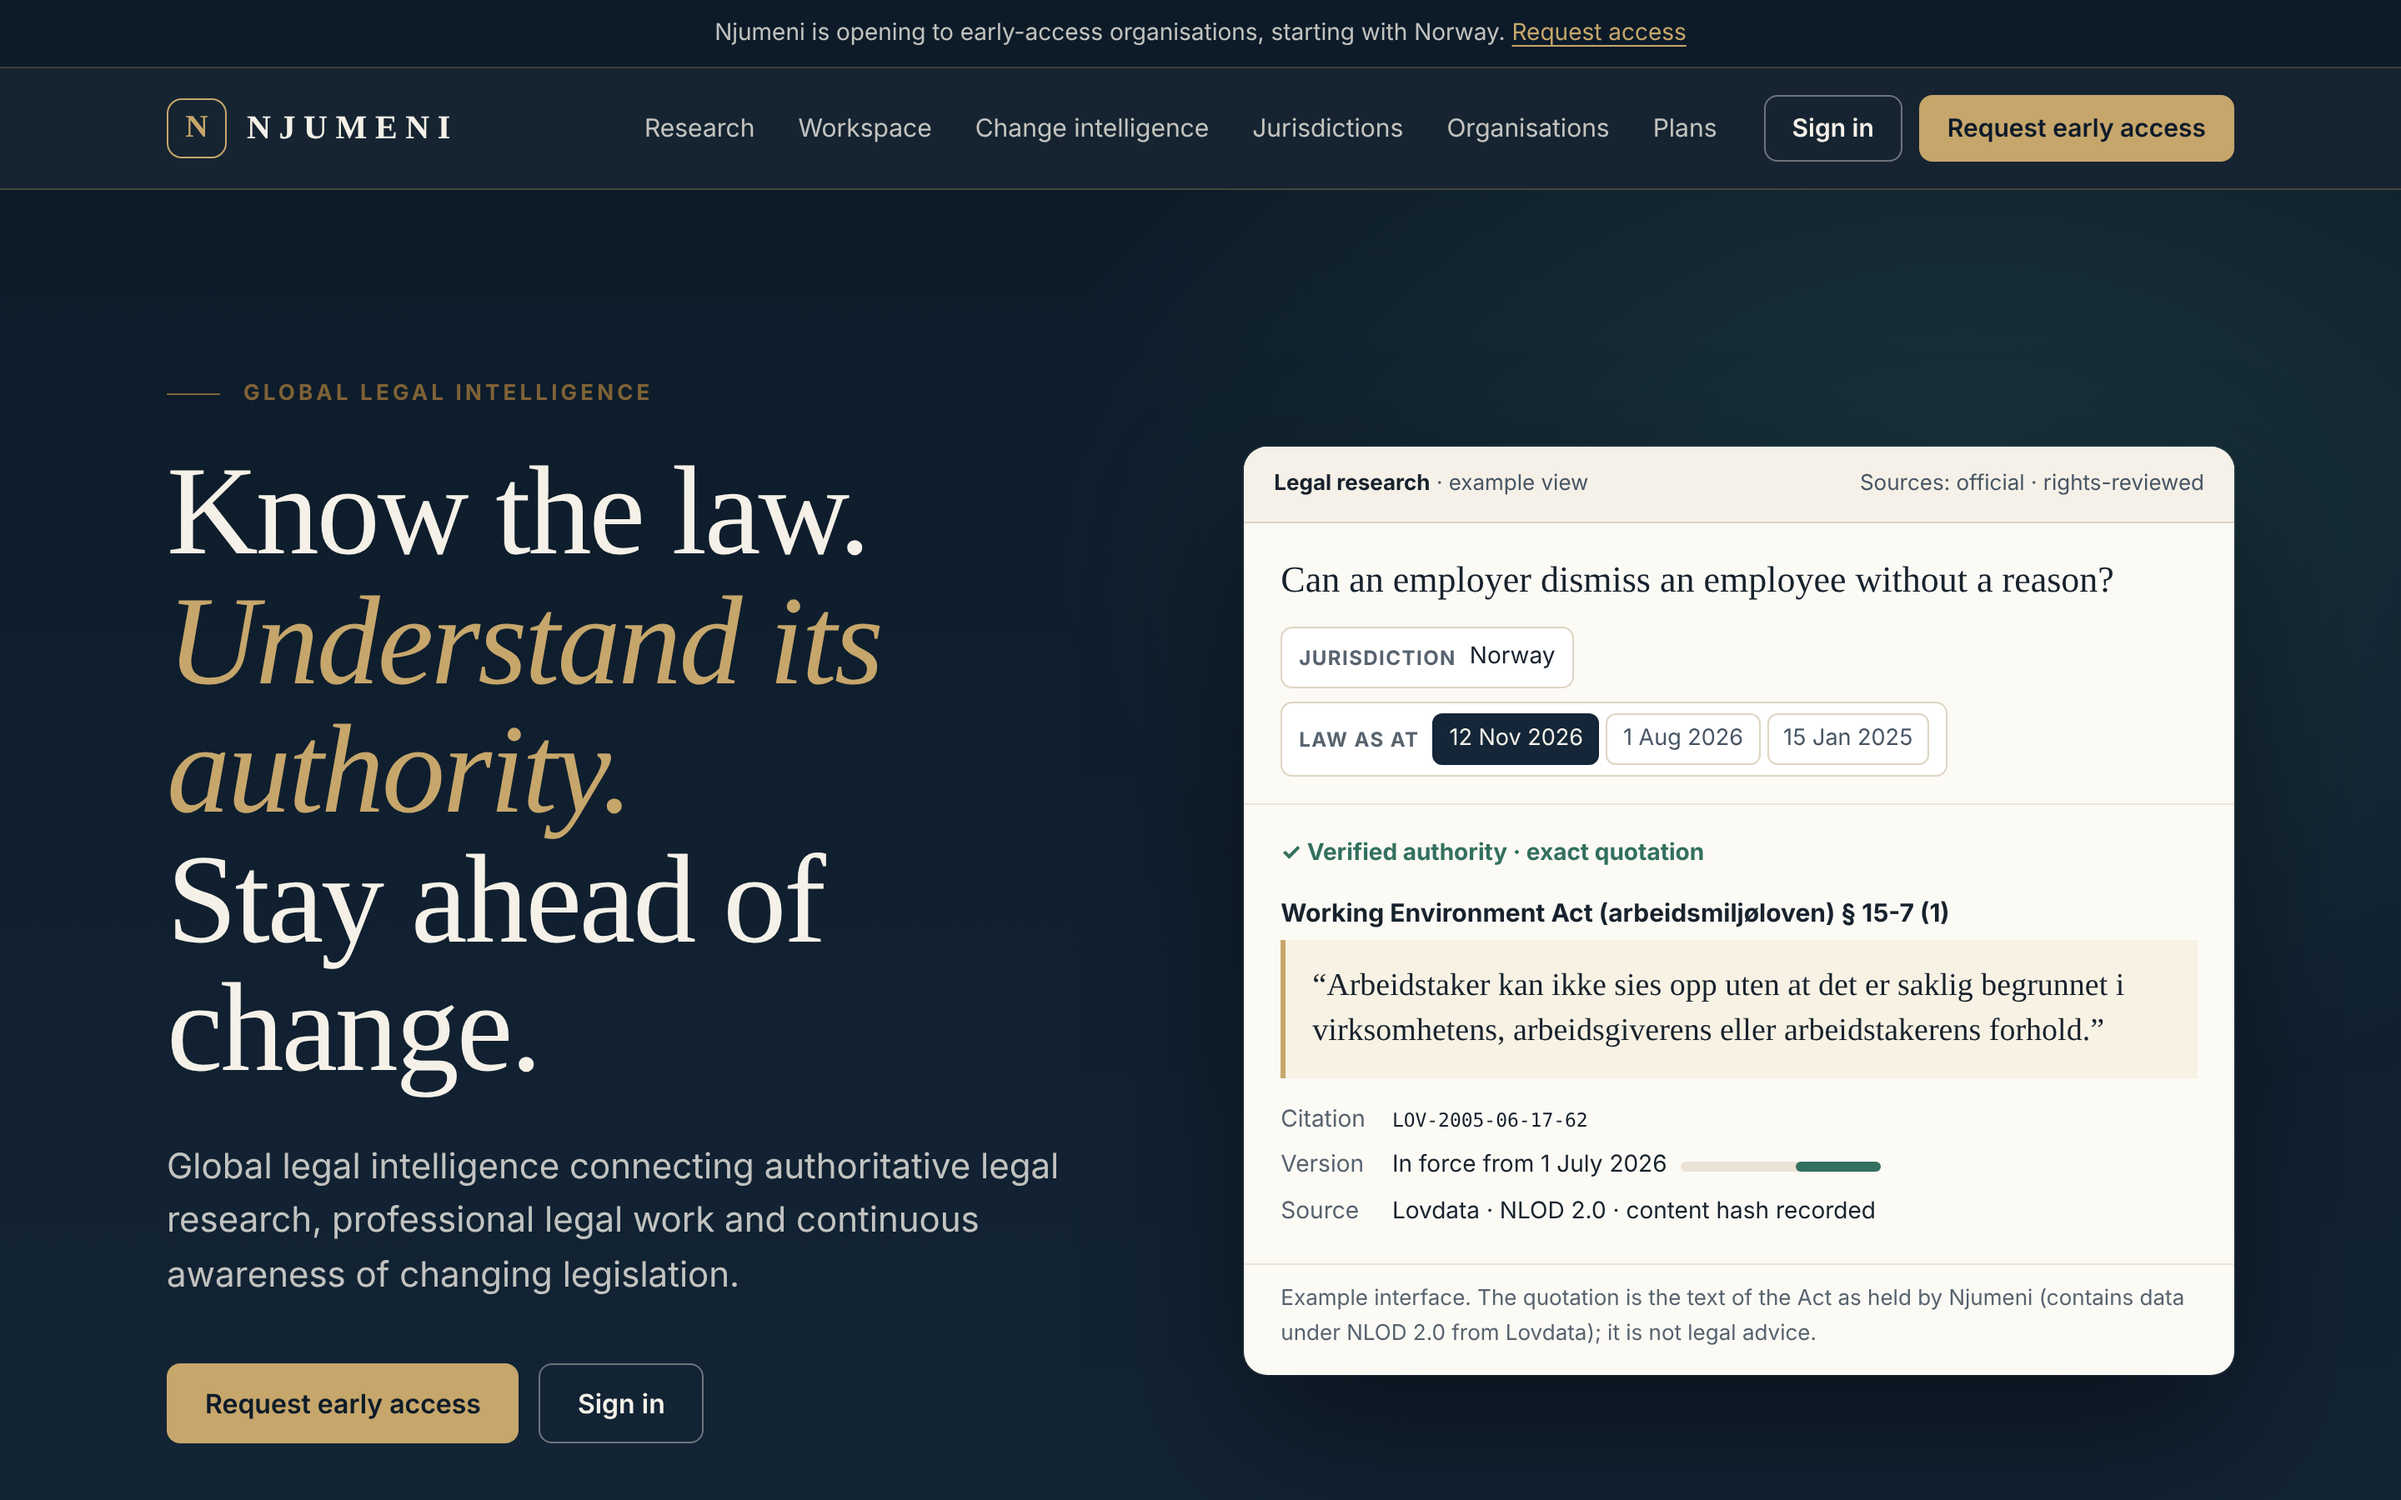
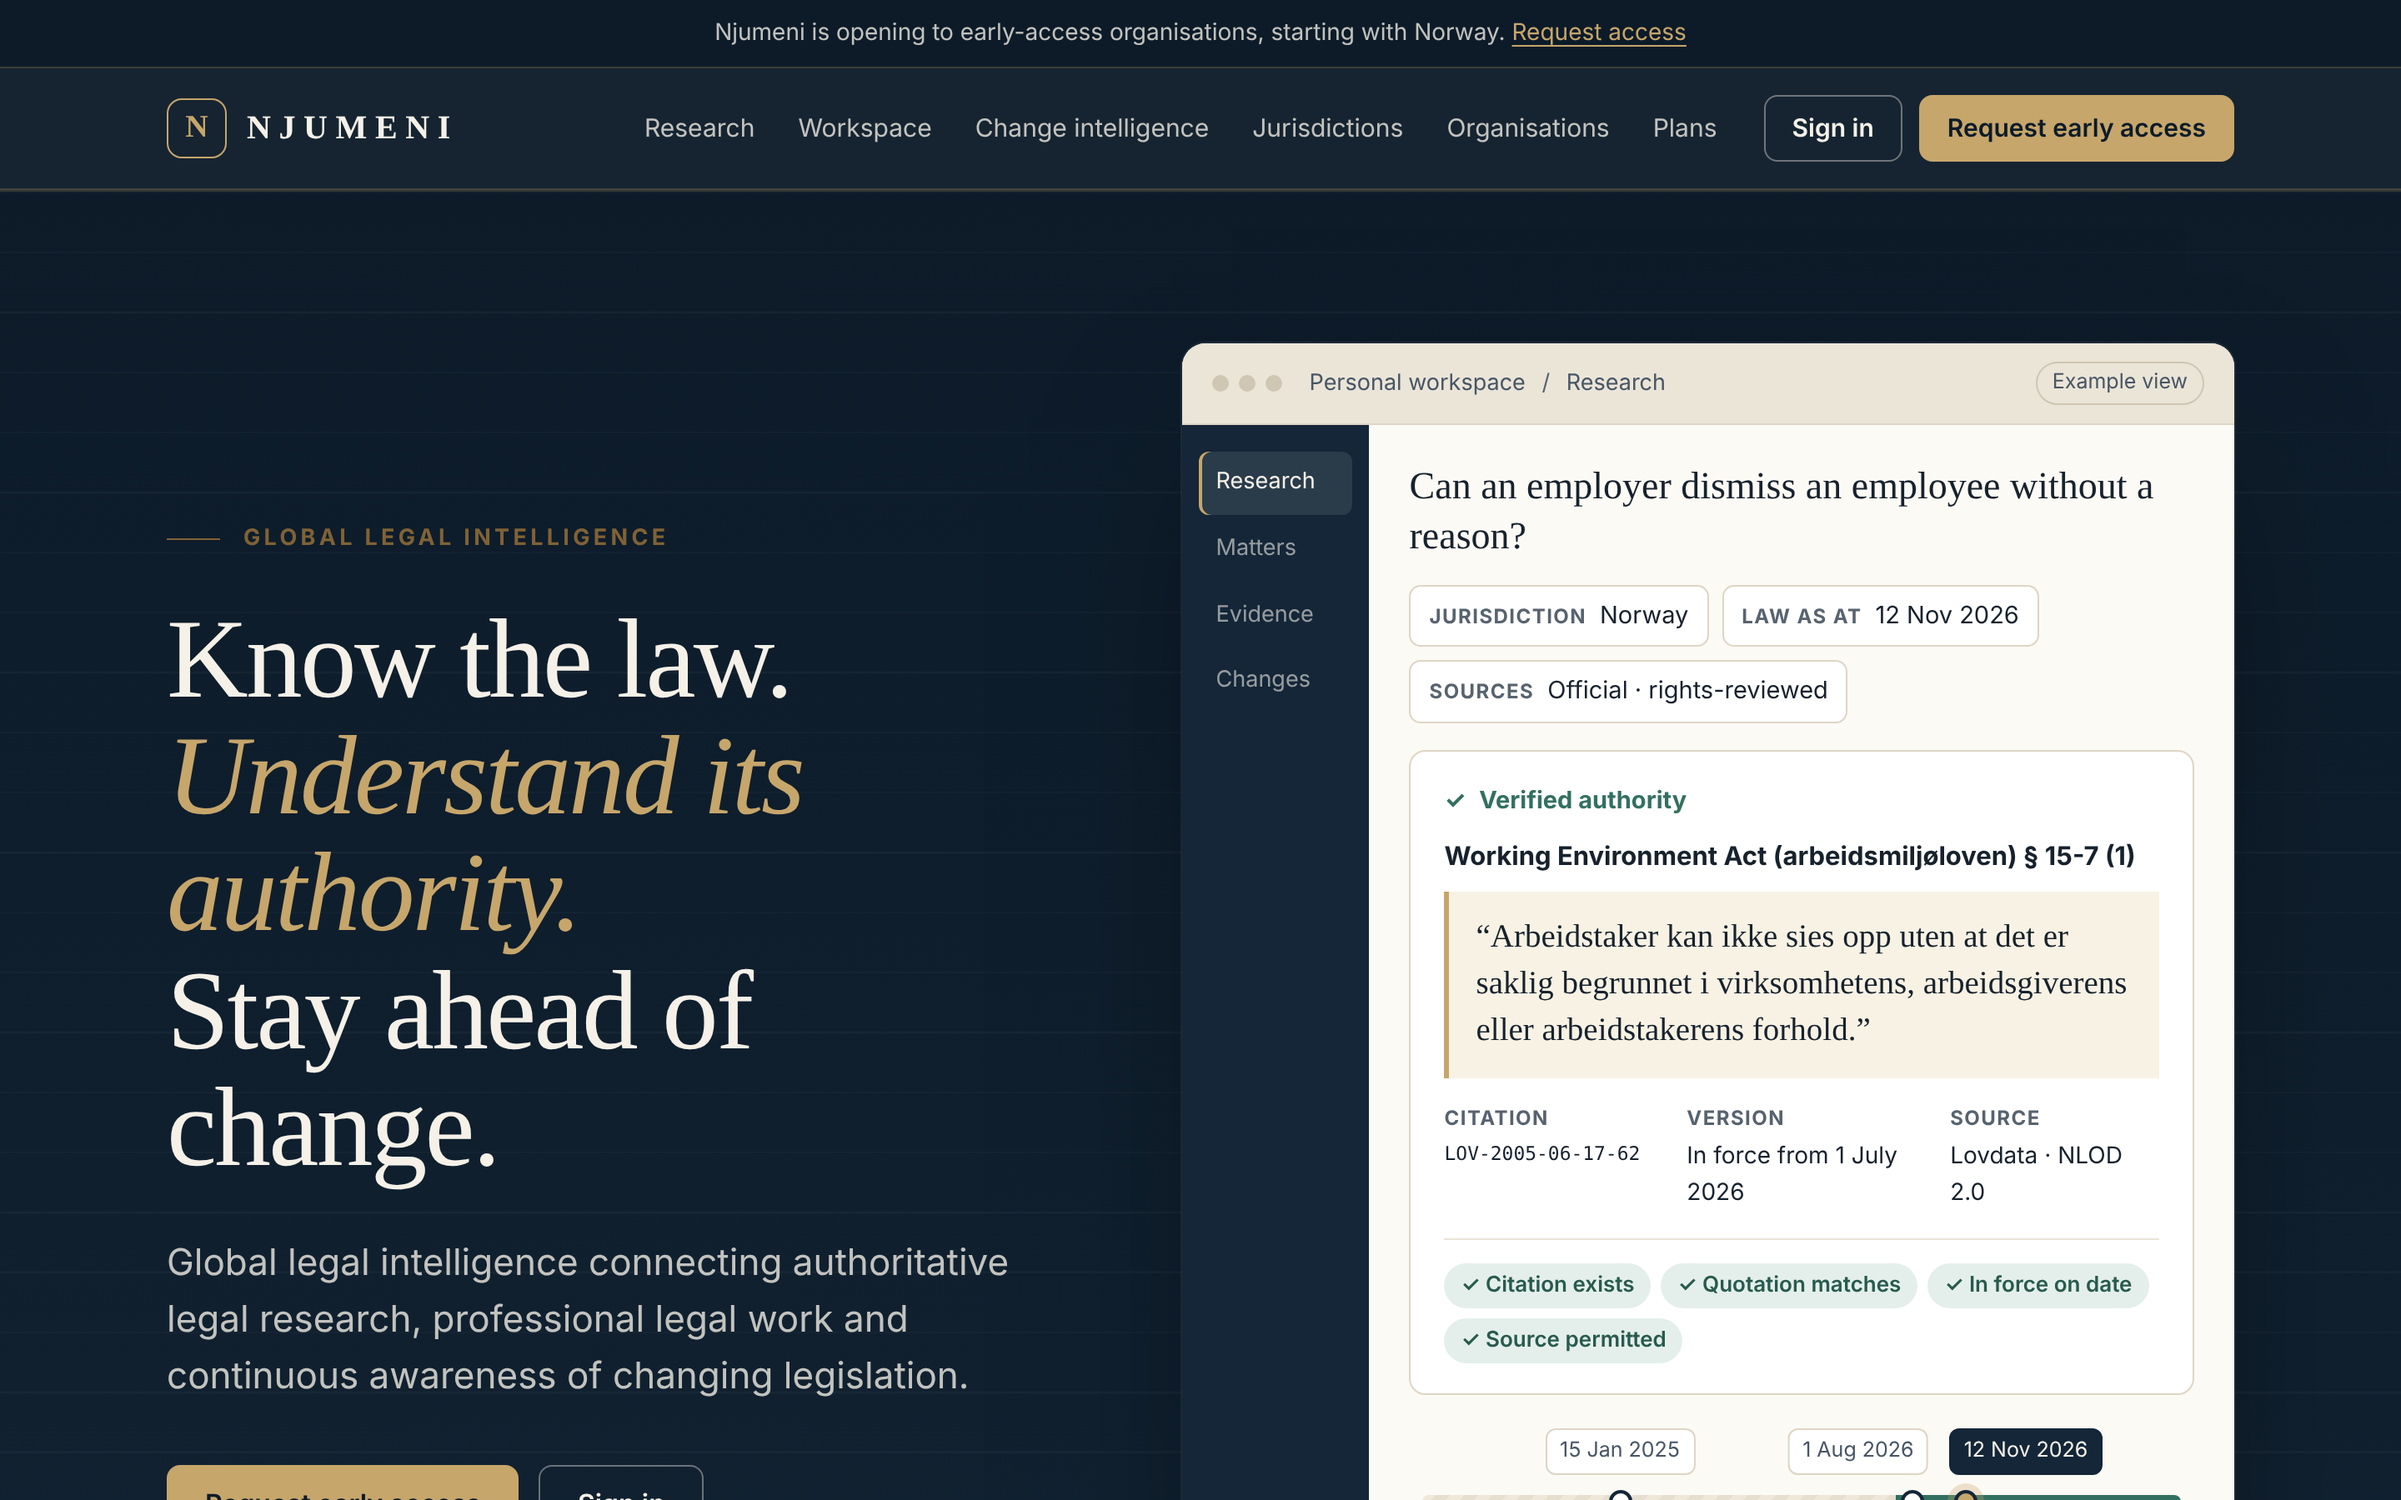
Homepage Phase 2: screenshots, report and e2e text match
Desktop and mobile screenshots of the refined page; the homepage journey
matches the customer-notice heading exactly.

Claude-Session: https://claude.ai/code/session_019jmcboZMCkPe6EUCFMWaGL

diff --git a/docs/HOMEPAGE_PHASE.md b/docs/HOMEPAGE_PHASE.md
@@ -7,7 +7,7 @@
 | Code | `apps/web/src/app/(marketing)/`: `layout.tsx`, `page.tsx`, `research-view.tsx`, `authority-chart.tsx`, `case-file.tsx`, `custody.tsx`, `observatory.tsx`, `atlas.tsx`, `journeys.tsx`, `plans.tsx`, `marketing.css`, `early-access/` |
 | Assets | `apps/web/public/home/jurisdiction-atlas.svg` (Equal Earth projection, with sphere and graticule), generated from Natural Earth (public domain) through `world-atlas` 2.0.2, `topojson-client` 3.1.0 and `d3-geo` 3.1.1. These packages were used only at design time; the app has no new dependency |
 | Database | Migration `20261114600000_early_access_requests` (unchanged in v3) |
-| Screenshots | `docs/assets/homepage-desktop.png` (first screen), `homepage-desktop-full.png`, `homepage-mobile.png`, `homepage-overview.png` |
+| Screenshots | `docs/assets/homepage-desktop.png` (first screen), `homepage-desktop-full.png`, `homepage-mobile.png` (first screen), `homepage-overview.png` (desktop, three columns), `homepage-mobile-overview.png` (phone, six columns) |
 
 ## 1. Story
 
